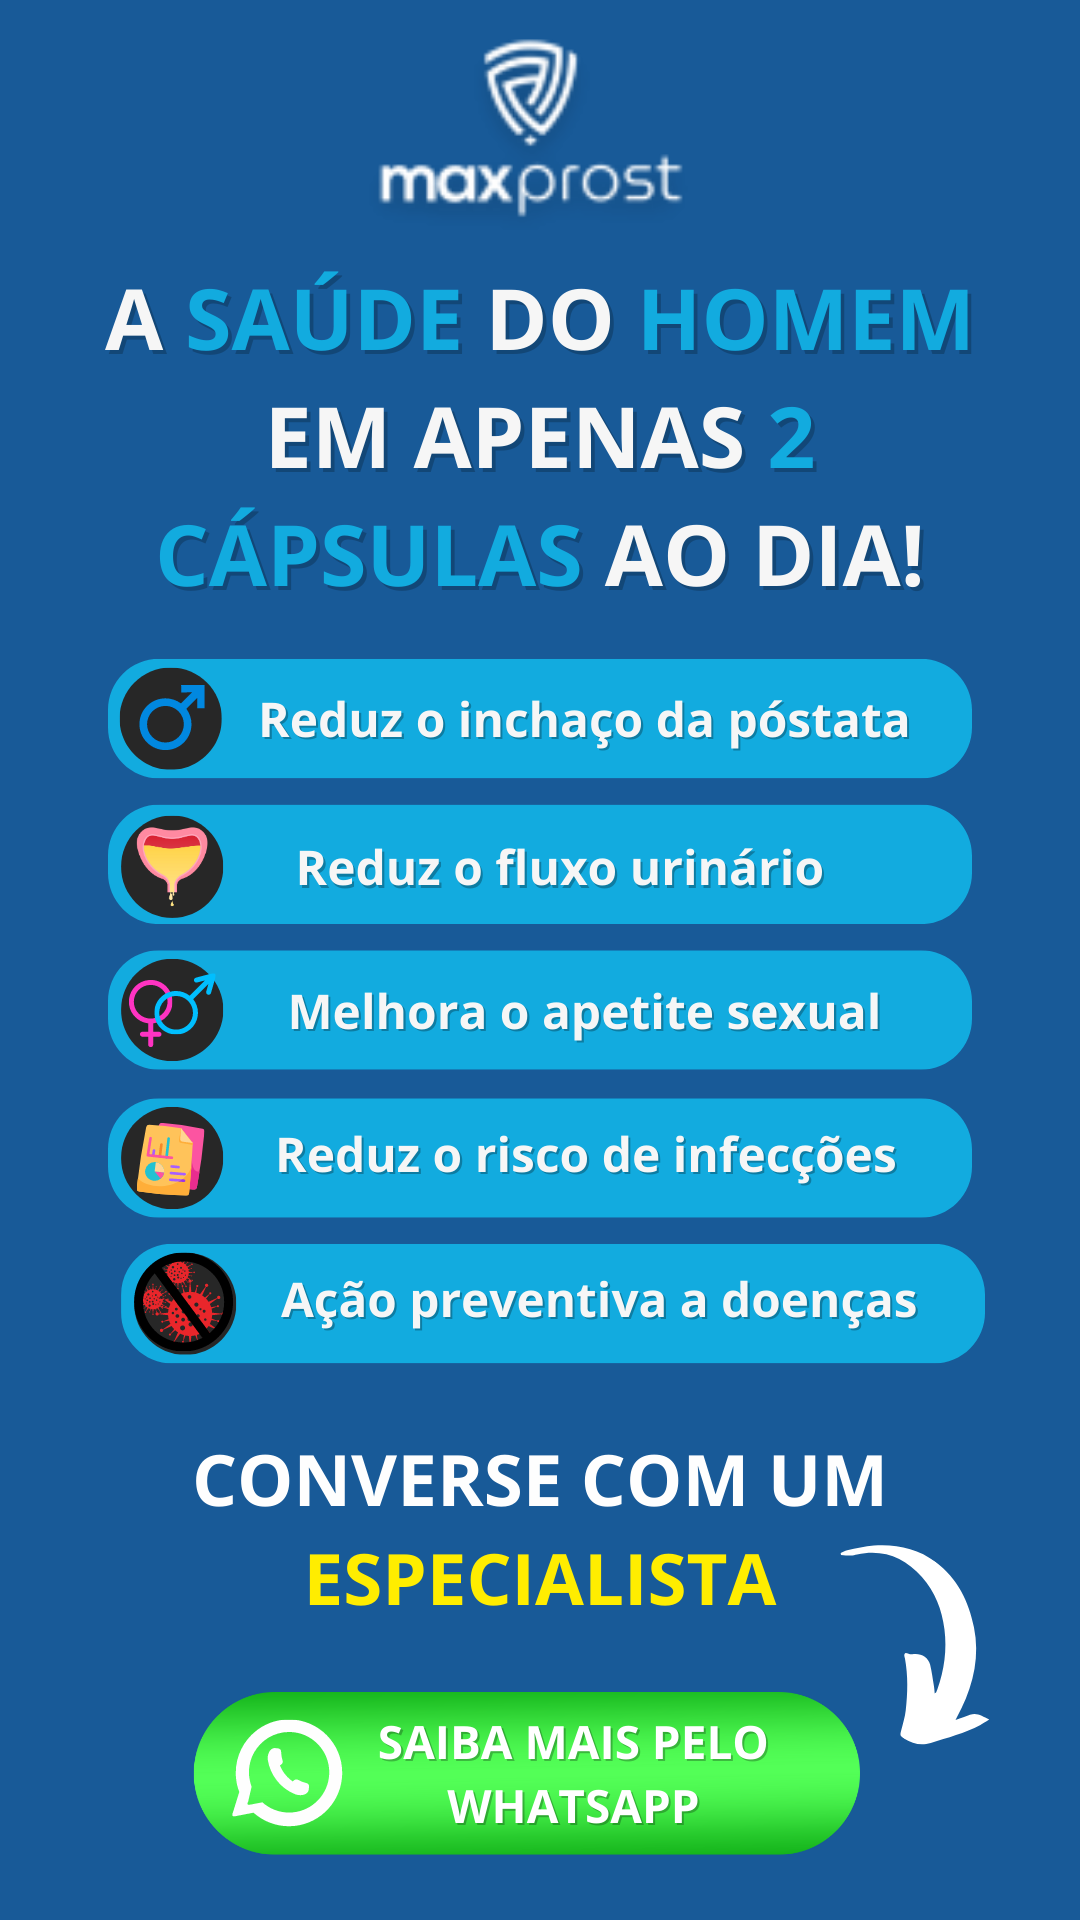
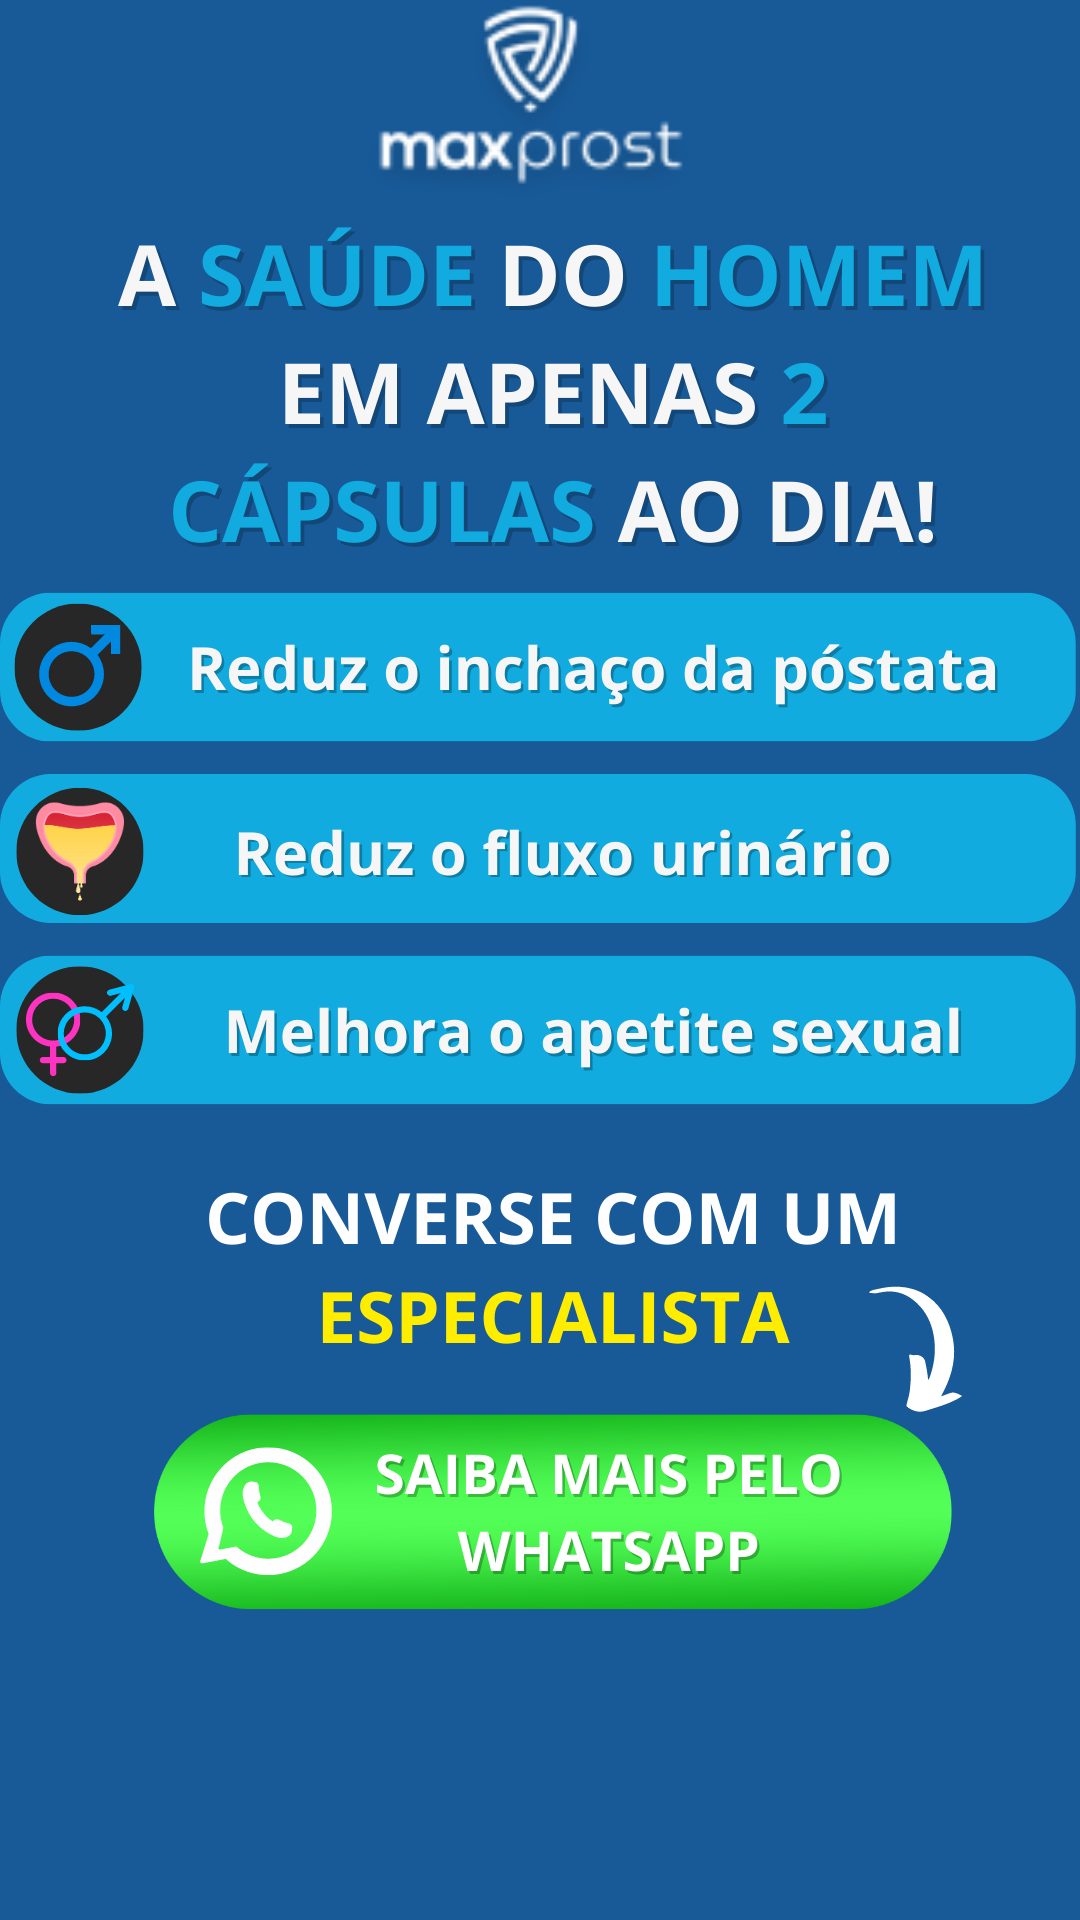
Add files via upload

diff --git a/whatsapp/index.html b/whatsapp/index.html
@@ -62,7 +62,7 @@ src="https://www.facebook.com/tr?id=248824004588845&ev=PageView&noscript=1"
           <div class="col-lg-10 text-center">
            <div class="row justify-content-center">
           <div class="col-lg-10 text-center">
-            <a href="https://wa.me/554185401201?text=Oi%2C+quero+saber+mais+sobre+o+Maxprost"><img class="img-fluid" src="thumb.png"></a>
+            <a href="https://wa.me/554185401201?text=Oi%2C+quero+saber+mais+sobre+o+Maxprost"><img class="img-fluid" src="thumb2.png"></a>
         </div>
       </div>
     </section>
